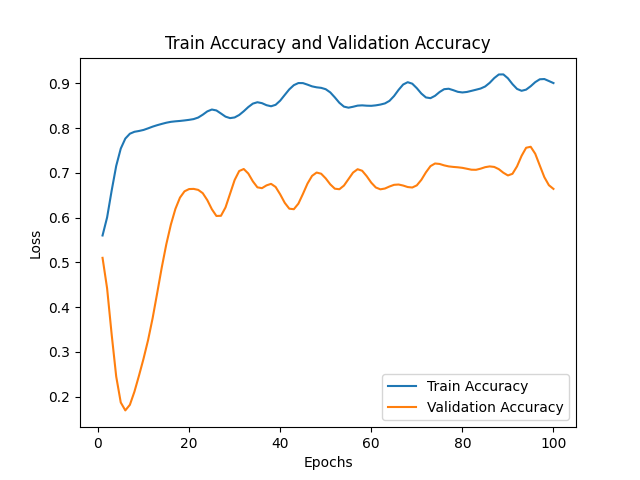
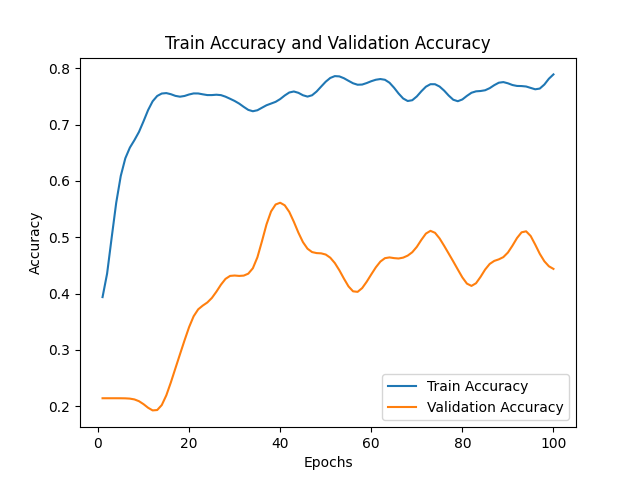
Update

diff --git a/src/predict.py b/src/predict.py
@@ -2,29 +2,36 @@ import os
 import torch
 import torch.nn as nn
 from torchvision import transforms
-from torchvision.io import ImageReadMode
 from PIL import Image
-from models import *
+from models import *  # Make sure you import your model correctly from the 'models' module
+from torchmetrics import ConfusionMatrix
+import matplotlib.pyplot as plt
+import pathlib 
 
 # Define the path to your model checkpoint
 model_checkpoint_path = "model.pth"
 
 # Define the path to the image you want to classify
-image_path = r"data\train\Task 1\Dystonia\09.png"
+image_path = "data/test/Task 1/"  # Use forward slashes for file paths
 
-DEVICE = torch.device('cuda:0' if torch.cuda.is_available() else 'cpu')
-NUM_CLASSES = 3
+# Define images variable to recursively list all the data file in the image_path
+images = list(pathlib.Path(image_path).rglob("*.png"))
+classes = os.listdir(image_path)
+print(images)
 
+true_classs = []
+predicted_labels = []
 
-# Create a parameter for the number of classes to be entered by user
-def __init__(self, num_classes):
-    
+DEVICE = torch.device("cuda:0" if torch.cuda.is_available() else "cpu")
 
-# model = ResNet50(num_classes=3)
+NUM_CLASSES = 5  # Update with the correct number of classes
+
+# Load your model (change this according to your model definition)
 model = resnet18(pretrained=False, num_classes=NUM_CLASSES)
-model.load_state_dict(torch.load(model_checkpoint_path))
+model.load_state_dict(torch.load(model_checkpoint_path, map_location=DEVICE))  # Load the model on the same device
 model.eval()
-model=model.to(DEVICE)
+model = model.to(DEVICE)
+
 # Define transformation for preprocessing the input image
 preprocess = transforms.Compose(
     [
@@ -35,38 +42,60 @@ preprocess = transforms.Compose(
     ]
 )
 
-# Load and preprocess the image
-image = Image.open(image_path)
-image = preprocess(image)
-image = image.unsqueeze(0)  # Add a batch dimension to the input tensor
-image=image.to(DEVICE)
-# Make predictions
-with torch.no_grad():
-    output = model(image)
-    _, predicted_class = torch.max(output, 1)
-
-# Print the predicted class
-print(f"Predicted class = {predicted_class.item()}")
-
-# Define the class labels
-class_labels = ['Dystonia', 'Essential Tremor', 'Parkinson Disease']
-                
-def predict_image(image_path, model, transform, class_labels):
-    image = Image.open(image_path)
-    image = transform(image).unsqueeze(0)
-    image = image.to(DEVICE)
-
+def predict_image(image_path, model, transform):
     model.eval()
+    correct_predictions = 0
+    total_predictions = len(images)
+    
     with torch.no_grad():
-        output = model(image)
+        for i in images:
+            print('---------------------------')
+            # Check the true label of the image by checking the sequence of the folder in Task 1
+            true_class = classes.index(i.parts[-2])
+            print("Image path:", i)
+            print("True class:", true_class)
+            image = Image.open(i)
+            image = transform(image).unsqueeze(0)
+            image = image.to(DEVICE)
+            output = model(image)
 
-    # softmax algorithm
-    probabilities = torch.softmax(output, dim=1)[0] * 100
-    predicted_class = torch.argmax(output, dim=1).item()
+            # softmax algorithm
+            probabilities = torch.softmax(output, dim=1)[0] * 100
+            predicted_class = torch.argmax(output, dim=1).item()
 
-    # Print predicted class and probablity
-    print("Predicted class:", class_labels[predicted_class])
-    print("Probability:", probabilities[predicted_class].item())
+            # Append true and predicted labels to their respective lists
+            true_classs.append(true_class)
+            predicted_labels.append(predicted_class)
+            
+            # Check if the prediction is correct
+            if predicted_class == true_class:
+                correct_predictions += 1
+
+            # Report the prediction
+            print("Predicted class:", predicted_class)
+            print("Probability:", probabilities[predicted_class].item())
+            print("Predicted label:", classes[predicted_class])
+            print("Correct predictions:", correct_predictions)
+            print("Correct?", "Yes" if predicted_class == true_class else "No")
+            print("---------------------------")
+            
 
 
-predict_image(image_path, model, preprocess, class_labels)
+    # Calculate accuracy
+    accuracy = correct_predictions / total_predictions
+    print("Accuracy:", accuracy)
+
+# Call the predict_image function
+predict_image(image_path, model, preprocess)
+
+# Convert the lists to tensors
+predicted_labels_tensor = torch.tensor(predicted_labels)
+true_classs_tensor = torch.tensor(true_classs)
+
+# Create confusion matrix
+conf_matrix = ConfusionMatrix(num_classes=NUM_CLASSES, task='multiclass')
+conf_matrix.update(predicted_labels_tensor, true_classs_tensor)
+
+# Plot confusion matrix
+conf_matrix.plot()
+plt.show()

diff --git a/src/main.py b/src/main.py
@@ -19,10 +19,10 @@ STEP_SIZE = 10
 GAMMA = 0.5
 DEVICE = torch.device("cuda:0" if torch.cuda.is_available() else "cpu")
 NUM_PRINT = 100
-NUM_CLASSES = 3
+NUM_CLASSES = 5
 
 # Load and preprocess the data
-data_dir = r"test_data/Task 1"
+data_dir = r"data\train\Task 1"
 
 # Define transformation for preprocessing
 preprocess = transforms.Compose(
@@ -135,18 +135,13 @@ for epoch in range(NUM_EPOCHS):
     avg_train_loss = running_loss / len(train_loader)
     AVG_TRAIN_LOSS_HIST.append(avg_train_loss)
 
-    # Calculate the accuracy of training set
-    train_accuracy = correct_train / total_train
-    TRAIN_ACC_HIST.append(train_accuracy)
-    print("Training Accuracy: %.6f" % (train_accuracy))
-
     # Print average training loss for the epoch
     print("[Epoch %d] Average Training Loss: %.6f" % (epoch + 1, avg_train_loss))
 
     # Learning rate scheduling
     lr_1 = optimizer.param_groups[0]["lr"]
     print("Learning Rate: {:.15f}".format(lr_1))
-    scheduler.step(avg_train_loss)
+    scheduler.step(avg_val_loss)
 
     # Validation loop
     model.eval()  # Set model to evaluation mode
@@ -216,7 +211,7 @@ plt.clf()
 plt.plot(range(1, NUM_EPOCHS + 1), train_acc_line, label="Train Accuracy")
 plt.plot(range(1, NUM_EPOCHS + 1), val_acc_line, label="Validation Accuracy")
 plt.xlabel("Epochs")
-plt.ylabel("Loss")
+plt.ylabel("Accuracy")
 plt.legend()
 plt.title("Train Accuracy and Validation Accuracy")
 plt.savefig("accuracy_plot.png")
